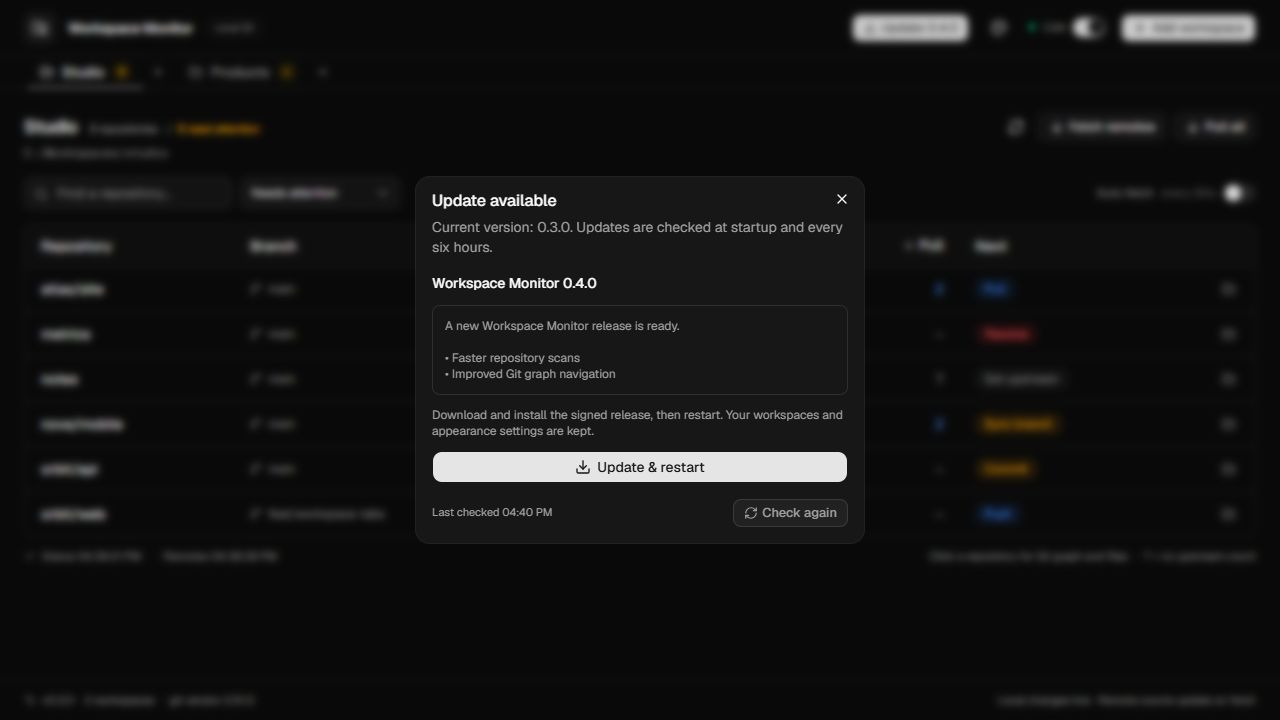
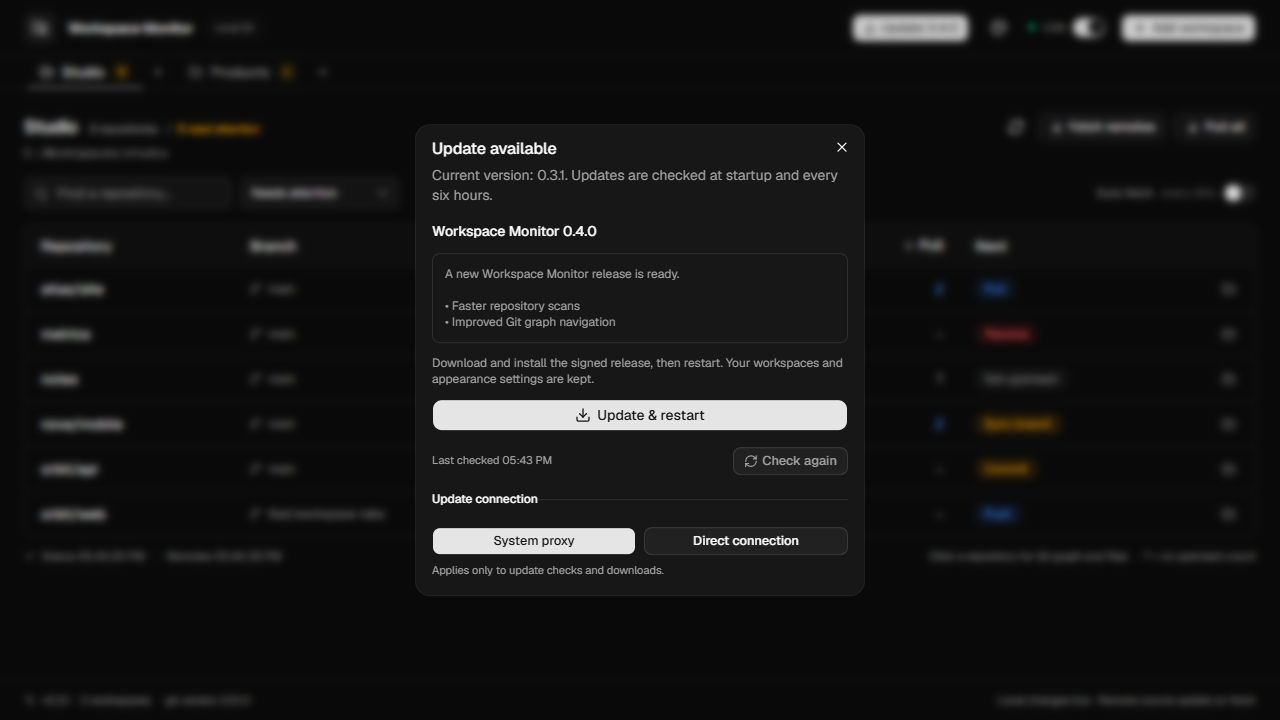
fix: support direct connections for signed app updates

Changed region(s): [[0.3125, 0.4889, 0.6875, 0.7944], [0.3438, 0.1833, 0.6562, 0.4583]]

diff --git a/src/components/app-updates.tsx b/src/components/app-updates.tsx
@@ -3,7 +3,7 @@ import { Download, LoaderCircle, RefreshCw } from "lucide-react";
 import { Button } from "@/components/ui/button";
 import { Dialog, DialogContent, DialogDescription, DialogHeader, DialogTitle } from "@/components/ui/dialog";
 import { Alert, AlertDescription } from "@/components/ui/alert";
-import { updater, type AppUpdate } from "@/lib/updater";
+import { updater, type AppUpdate, type UpdateConnection } from "@/lib/updater";
 import { version } from "../../package.json";
 
 const CHECK_INTERVAL = 6 * 60 * 60 * 1000;
@@ -16,6 +16,7 @@ export function AppUpdates({ enabled, blocked, onInstalling }: { enabled: boolea
   const [error, setError] = useState("");
   const [checkedAt, setCheckedAt] = useState<number | null>(null);
   const [progress, setProgress] = useState({ bytes: 0, total: 0 });
+  const [connection, setConnection] = useState<UpdateConnection>("system");
   const active = useRef(true);
   const busy = useRef(false);
   const heldUpdate = useRef<AppUpdate | null>(null);
@@ -27,6 +28,8 @@ export function AppUpdates({ enabled, blocked, onInstalling }: { enabled: boolea
     busy.current = true; lastAttempt.current = Date.now();
     setPhase("checking"); setError("");
     try {
+      const mode = await updater.connection();
+      if (active.current) setConnection(mode);
       const result = await updater.check();
       if (!active.current) { await result?.close().catch(() => {}); return; }
       const old = heldUpdate.current;
@@ -55,6 +58,20 @@ export function AppUpdates({ enabled, blocked, onInstalling }: { enabled: boolea
       void old?.close().catch(() => {});
     };
   }, [enabled, checkNow]);
+
+  async function changeConnection(mode: UpdateConnection) {
+    if (busy.current || !enabled) return;
+    busy.current = true; setPhase("checking"); setError("");
+    let saved = false;
+    try {
+      await updater.saveConnection(mode); setConnection(mode);
+      const old = heldUpdate.current; heldUpdate.current = null;
+      setAvailable(null); setCheckedAt(null);
+      await old?.close().catch(() => {}); saved = true;
+    } catch (e) { setError(String(e)); }
+    finally { busy.current = false; setPhase("idle"); }
+    if (saved) void checkNow();
+  }
 
   async function install() {
     const update = heldUpdate.current;
@@ -102,6 +119,9 @@ export function AppUpdates({ enabled, blocked, onInstalling }: { enabled: boolea
           <span>{checkedAt ? `Last checked ${new Date(checkedAt).toLocaleTimeString([], { hour: "2-digit", minute: "2-digit" })}` : "Not checked yet"}</span>
           <Button variant="outline" size="sm" disabled={!enabled || phase !== "idle"} onClick={() => void checkNow()}><RefreshCw className="size-3.5" />Check again</Button>
         </div>
+        <fieldset className="border-t pt-3"><legend className="text-xs font-medium">Update connection</legend><div className="grid grid-cols-2 gap-2 mt-2">
+          {(["system", "direct"] as const).map((mode) => <Button key={mode} variant={connection === mode ? "default" : "outline"} size="sm" disabled={!enabled || phase !== "idle"} aria-pressed={connection === mode} onClick={() => void changeConnection(mode)}>{mode === "system" ? "System proxy" : "Direct connection"}</Button>)}
+        </div><p className="text-[11px] text-muted-foreground mt-2">Applies only to update checks and downloads.</p></fieldset>
       </DialogContent>
     </Dialog>
   </>;

diff --git a/src/components/app-updates.test.tsx b/src/components/app-updates.test.tsx
@@ -3,9 +3,9 @@ import userEvent from "@testing-library/user-event";
 import { afterEach, beforeEach, describe, expect, it, vi } from "vitest";
 import { AppUpdates } from "./app-updates";
 import { updater, type AppUpdate } from "@/lib/updater";
-vi.mock("@/lib/updater", () => ({ updater: { check: vi.fn(), restart: vi.fn() } }));
+vi.mock("@/lib/updater", () => ({ updater: { check: vi.fn(), restart: vi.fn(), connection: vi.fn(), saveConnection: vi.fn() } }));
 const update = (): AppUpdate => ({ version: "0.4.0", body: "Faster Git scans", close: vi.fn().mockResolvedValue(undefined), download: vi.fn().mockResolvedValue(undefined), install: vi.fn().mockResolvedValue(undefined) });
-beforeEach(() => { vi.resetAllMocks(); vi.mocked(updater.check).mockResolvedValue(null); vi.mocked(updater.restart).mockResolvedValue(undefined); });
+beforeEach(() => { vi.resetAllMocks(); vi.mocked(updater.check).mockResolvedValue(null); vi.mocked(updater.restart).mockResolvedValue(undefined); vi.mocked(updater.connection).mockResolvedValue("system"); vi.mocked(updater.saveConnection).mockResolvedValue(undefined); });
 afterEach(() => vi.useRealTimers());
 describe("app updates", () => {
   it("checks at startup and every six hours, and offers manual checking", async () => {
@@ -67,5 +67,16 @@ describe("app updates", () => {
     await waitFor(() => expect(updater.check).toHaveBeenCalledOnce());
     view.unmount(); await act(async () => finish(item));
     expect(item.close).toHaveBeenCalledOnce();
+  });
+  it("saves the update connection, closes old resources and checks again", async () => {
+    const item = update(); vi.mocked(updater.check).mockResolvedValueOnce(item).mockResolvedValue(null);
+    vi.mocked(updater.saveConnection).mockImplementation(async () => { vi.mocked(updater.connection).mockResolvedValue("direct"); });
+    const user = userEvent.setup(); render(<AppUpdates enabled blocked={false} onInstalling={vi.fn()} />);
+    await user.click(await screen.findByRole("button", { name: "Update available: 0.4.0" }));
+    await user.click(screen.getByRole("button", { name: "Direct connection" }));
+    await waitFor(() => expect(updater.check).toHaveBeenCalledTimes(2));
+    expect(updater.saveConnection).toHaveBeenCalledWith("direct");
+    expect(item.close).toHaveBeenCalledOnce();
+    expect(screen.getByRole("button", { name: "Direct connection" })).toHaveAttribute("aria-pressed", "true");
   });
 });

diff --git a/src/lib/updater.ts b/src/lib/updater.ts
@@ -1,9 +1,16 @@
-import { check, type Update, type DownloadEvent } from "@tauri-apps/plugin-updater";
+import { Update, type DownloadEvent } from "@tauri-apps/plugin-updater";
+import { invoke } from "@tauri-apps/api/core";
 import { relaunch } from "@tauri-apps/plugin-process";
 
 export type AppUpdate = Pick<Update, "version" | "body" | "date" | "download" | "install" | "close">;
 export type UpdateEvent = DownloadEvent;
+export type UpdateConnection = "system" | "direct";
 export const updater = {
-  check: (): Promise<AppUpdate | null> => check({ timeout: 20_000 }),
+  check: async (): Promise<AppUpdate | null> => {
+    const metadata = await invoke<ConstructorParameters<typeof Update>[0] | null>("check_app_update");
+    return metadata ? new Update(metadata) : null;
+  },
+  connection: () => invoke<UpdateConnection>("update_connection"),
+  saveConnection: (mode: UpdateConnection) => invoke<void>("save_update_connection", { mode }),
   restart: relaunch,
 };

diff --git a/src/App.test.tsx b/src/App.test.tsx
@@ -2,7 +2,7 @@ import { fireEvent, render, screen, waitFor, within } from "@testing-library/rea
 import userEvent from "@testing-library/user-event";
 import { beforeEach, describe, expect, it, vi } from "vitest";
 import App from "./App";
-vi.mock("./lib/updater", () => ({ updater: { check: vi.fn().mockResolvedValue(null), restart: vi.fn() } }));
+vi.mock("./lib/updater", () => ({ updater: { check: vi.fn().mockResolvedValue(null), restart: vi.fn(), connection: vi.fn().mockResolvedValue("system"), saveConnection: vi.fn() } }));
 import {
   native,
   nextStep,

diff --git a/src-tauri/src/lib.rs b/src-tauri/src/lib.rs
@@ -312,6 +312,63 @@ async fn repository_action(
     let _ = app.emit("workspace-invalidated", &workspace_id);
     result
 }
+
+fn update_connection_path(app: &tauri::AppHandle) -> Result<PathBuf, String> {
+    Ok(app
+        .path()
+        .app_config_dir()
+        .map_err(|e| e.to_string())?
+        .join("updates.json"))
+}
+#[tauri::command]
+fn update_connection(app: tauri::AppHandle) -> Result<String, String> {
+    let path = update_connection_path(&app)?;
+    if !path.exists() {
+        return Ok("system".into());
+    }
+    let mode: String = serde_json::from_slice(&fs::read(path).map_err(|e| e.to_string())?)
+        .map_err(|e| e.to_string())?;
+    if !["system", "direct"].contains(&mode.as_str()) {
+        return Err("Choose a valid update connection.".into());
+    }
+    Ok(mode)
+}
+#[tauri::command]
+fn save_update_connection(app: tauri::AppHandle, mode: String) -> Result<(), String> {
+    if !["system", "direct"].contains(&mode.as_str()) {
+        return Err("Choose a valid update connection.".into());
+    }
+    let path = update_connection_path(&app)?;
+    fs::create_dir_all(
+        path.parent()
+            .ok_or("Update settings folder is unavailable.")?,
+    )
+    .map_err(|e| e.to_string())?;
+    fs::write(path, serde_json::to_vec(&mode).map_err(|e| e.to_string())?)
+        .map_err(|e| e.to_string())
+}
+#[tauri::command]
+async fn check_app_update(
+    app: tauri::AppHandle,
+    webview: tauri::Webview,
+) -> Result<Option<serde_json::Value>, String> {
+    use tauri_plugin_updater::UpdaterExt;
+    let mut builder = webview
+        .updater_builder()
+        .timeout(std::time::Duration::from_secs(20));
+    if update_connection(app)? == "direct" {
+        builder = builder.no_proxy();
+    }
+    let updater = builder.build().map_err(|e| e.to_string())?;
+    let update = updater.check().await.map_err(|e| e.to_string())?;
+    Ok(update.map(|update| {
+        let metadata = serde_json::json!({"currentVersion": update.current_version, "version": update.version, "body": update.body, "date": update.raw_json.get("pub_date"), "rawJson": update.raw_json});
+        let rid = webview.resources_table().add(update);
+        let mut metadata = metadata;
+        metadata["rid"] = serde_json::json!(rid);
+        metadata
+    }))
+}
 #[cfg_attr(mobile, tauri::mobile_entry_point)]
 pub fn run() {
     tauri::Builder::default().plugin(tauri_plugin_opener::init()).plugin(tauri_plugin_dialog::init()).plugin(tauri_plugin_updater::Builder::new().build()).plugin(tauri_plugin_process::init()).manage(AppState::default())
@@ -355,7 +412,7 @@ pub fn run() {
             }
             #[cfg(not(debug_assertions))] let _ = (webview, payload);
         })
-        .invoke_handler(tauri::generate_handler![load_workspaces, save_workspaces, scan_workspace, check_environment, install_git, open_git_download, open_repository, repository_history, repository_changes, repository_diff, repository_action, smoke_report, smoke_update])
+        .invoke_handler(tauri::generate_handler![load_workspaces, save_workspaces, scan_workspace, check_environment, install_git, open_git_download, open_repository, repository_history, repository_changes, repository_diff, repository_action, update_connection, save_update_connection, check_app_update, smoke_report, smoke_update])
         .run(tauri::generate_context!()).expect("error while running Workspace Monitor");
 }
 
@@ -371,21 +428,23 @@ async fn smoke_update(app: tauri::AppHandle) -> Result<serde_json::Value, String
         }
         // Download the current release to verify transport and signatures without
         // installing it or allowing downgrades in a production build.
-        let updater = app
+        let mut builder = app
             .updater_builder()
             .timeout(std::time::Duration::from_secs(45))
-            .version_comparator(|_, _| true)
-            .build()
-            .map_err(|e| e.to_string())?;
+            .version_comparator(|_, _| true);
+        if update_connection(app.clone())? == "direct" {
+            builder = builder.no_proxy();
+        }
+        let updater = builder.build().map_err(|e| e.to_string())?;
         let update = updater
             .check()
             .await
-            .map_err(|e| e.to_string())?
+            .map_err(|e| format!("{e:?}"))?
             .ok_or("No update manifest found.")?;
         let bytes = update
             .download(|_, _| {}, || {})
             .await
-            .map_err(|e| e.to_string())?;
+            .map_err(|e| format!("{e:?}"))?;
         Ok(
             serde_json::json!({"ok": !bytes.is_empty(), "version": update.version, "signatureVerified": true, "downloadedBytes": bytes.len(), "installed": false}),
         )

diff --git a/README.md b/README.md
@@ -5,7 +5,7 @@
   <p>A compact desktop Git monitor built with Tauri, React, and shadcn/ui.</p>
   <p>
     <a href="https://github.com/sajadjanat/workspace-monitor/actions/workflows/build.yml"><img src="https://github.com/sajadjanat/workspace-monitor/actions/workflows/build.yml/badge.svg" alt="Desktop builds" /></a>
-    <a href="https://github.com/sajadjanat/workspace-monitor/releases"><img src="https://img.shields.io/badge/version-0.3.0-blue" alt="Version 0.3.0" /></a>
+    <a href="https://github.com/sajadjanat/workspace-monitor/releases"><img src="https://img.shields.io/badge/version-0.3.1-blue" alt="Version 0.3.1" /></a>
     <img src="https://img.shields.io/badge/Tauri-2-24c8db?logo=tauri&logoColor=white" alt="Tauri 2" />
     <img src="https://img.shields.io/badge/UI-shadcn%2Fui-18181b?logo=shadcnui&logoColor=white" alt="shadcn/ui" />
   </p>
@@ -82,7 +82,7 @@ You do not need Node.js or Rust to run the packaged app. Git is required for mon
 | macOS | Build target in the CI workflow; no local runtime verification yet. |
 | Linux | Build target in the CI workflow; no local runtime verification yet. |
 
-The [desktop build workflow](https://github.com/sajadjanat/workspace-monitor/actions/workflows/build.yml) builds each platform on its own runner. Successful runs expose installers as downloadable artifacts. Release signing and macOS notarization are not configured yet.
+The [desktop build workflow](https://github.com/sajadjanat/workspace-monitor/actions/workflows/build.yml) builds each platform on its own runner. Successful runs expose installers as downloadable artifacts. The [signed release workflow](https://github.com/sajadjanat/workspace-monitor/actions/workflows/release.yml) signs packages for in-app updates. Operating-system code signing and macOS notarization are not configured yet.
 
 ## Quick start
 
@@ -136,7 +136,9 @@ Starting with **0.3.0**, the app checks for new releases at startup and every si
 
 Only packages signed with the configured release key are accepted. The signature also binds the advertised version to the package, and older versions are not offered. Checks use the public `latest.json` asset on the latest GitHub release. The signed release workflow publishes installers, signatures, and that manifest.
 
-Users of **0.1.0 or 0.2.0 must install 0.3.0 once manually** to enable future in-app updates. On Windows, the updater uses the NSIS installer; a portable installation is upgraded to the normal per-user installation. Linux updates use the AppImage, and macOS uses the application bundle. Platform entries appear as their signed release builds complete.
+Users of **0.1.0 or 0.2.0 must install 0.3.1 once manually** to enable future in-app updates. On Windows, the updater uses the NSIS installer; a portable installation is upgraded to the normal per-user installation. Linux updates use the AppImage, and macOS uses the application bundle. Platform entries appear as their signed release builds complete.
+
+**Update connection** defaults to your system proxy settings. If a configured proxy prevents checks or downloads, select **Direct connection** to use direct HTTPS for updates. The choice is saved separately from workspace and appearance preferences. Switching mode clears the previous result and checks again; downloads use the connection that found the release.
 
 ![Available update with release notes and an install button](docs/images/app-update.png)
 

diff --git a/docs/development.md b/docs/development.md
@@ -41,6 +41,8 @@ Fresh clones should use the standard Tauri prerequisites. Packaged app users nee
 
 The main config contains the public update key and a HTTPS GitHub Releases endpoint. `src-tauri/tauri.release.conf.json` enables updater artifacts for release builds. Regular development builds do not need signing credentials.
 
+The `check_app_update` command constructs the official updater using the saved system or direct connection, then registers the update in the webview resource table. Downloads, signature checks, installation and cleanup use the official plugin. Connection mode is saved in `updates.json` in the app configuration directory. TLS and signatures remain verified.
+
 The `Publish signed desktop updates` workflow runs on version tags or manual dispatch. It builds Windows NSIS, macOS universal app/DMG, and Linux AppImage/DEB packages, signs updater artifacts, and merges platform entries into `latest.json`. Platform jobs run sequentially because they share that manifest. Only this workflow has release write permissions.
 
 Repository Actions secrets `TAURI_SIGNING_PRIVATE_KEY` and `TAURI_SIGNING_PRIVATE_KEY_PASSWORD` hold the encrypted signing key and its password. Never commit these values. Keep the original key: changing it would prevent already-installed apps from accepting future releases.
